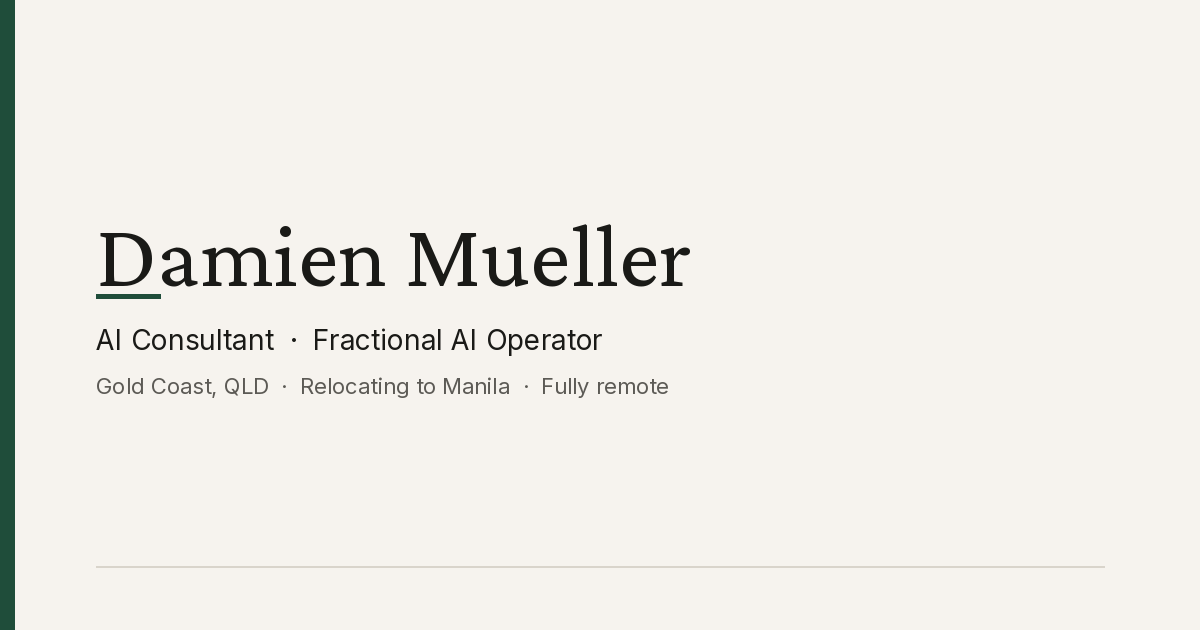
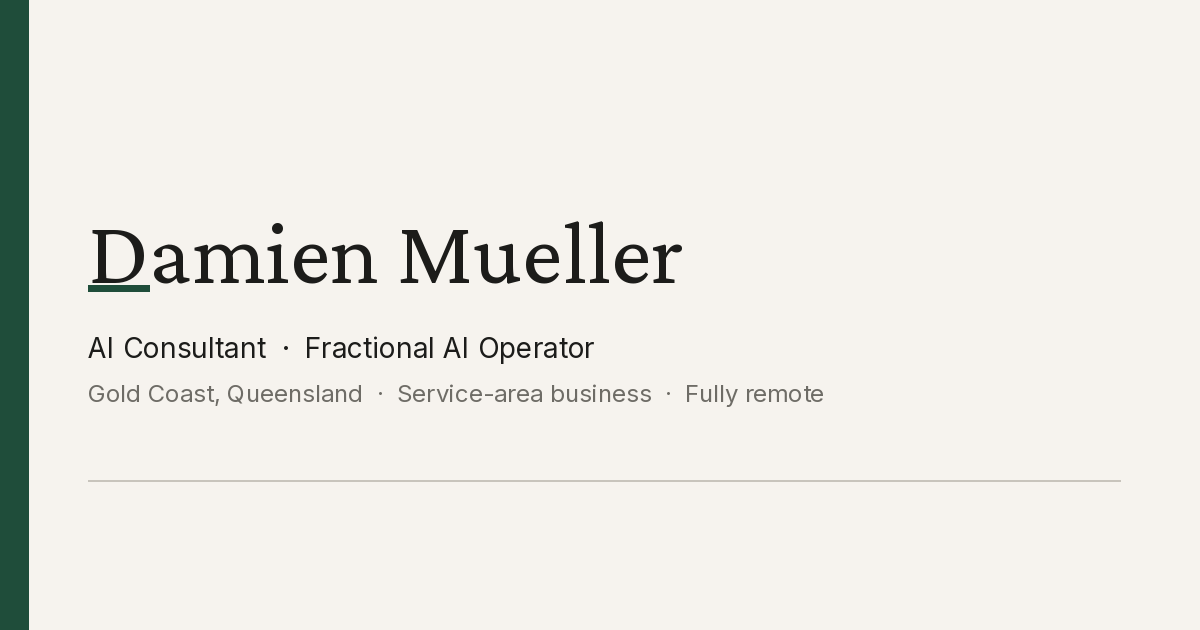
Align the profile with the Gold Coast service-area default
Remove relocating-to-Manila wording from the page and the social image
so the profile matches Broadwater AI.

diff --git a/index.html b/index.html
@@ -253,7 +253,7 @@
       <p class="eyebrow">AI consultant &amp; operator</p>
       <h1>Damien Mueller</h1>
       <p class="headline">AI Consultant &amp; Fractional AI Operator</p>
-      <p class="meta">Gold Coast, QLD, relocating to Manila, Philippines — fully remote, any time zone</p>
+      <p class="meta">Gold Coast, Queensland — a service-area business. No street address. Work is done remotely, Australia-wide and across the Asia-Pacific.</p>
       <p class="avail">Available immediately</p>
     </header>
 
